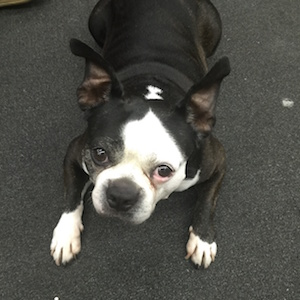
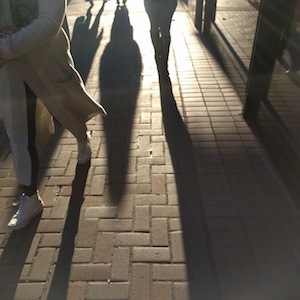
style: :lipstick: image Expanded

diff --git a/lib/main.dart b/lib/main.dart
@@ -19,9 +19,9 @@ class MyApp extends StatelessWidget {
   }
 
   Widget buildRow() => (Row(mainAxisAlignment: MainAxisAlignment.spaceEvenly,
-  children: [
-    Image.asset('assets/images/pic1.jpg'),
-    Image.asset('assets/images/pic2.jpg'),
-    Image.asset('assets/images/pic3.jpg'),
+  children: [ //Expanded widget to make images responsive
+    Expanded(child: Image.asset('assets/images/pic1.jpg')),
+    Expanded(child: Image.asset('assets/images/pic2.jpg')),
+    Expanded(child: Image.asset('assets/images/pic3.jpg')),
   ],));
 }
